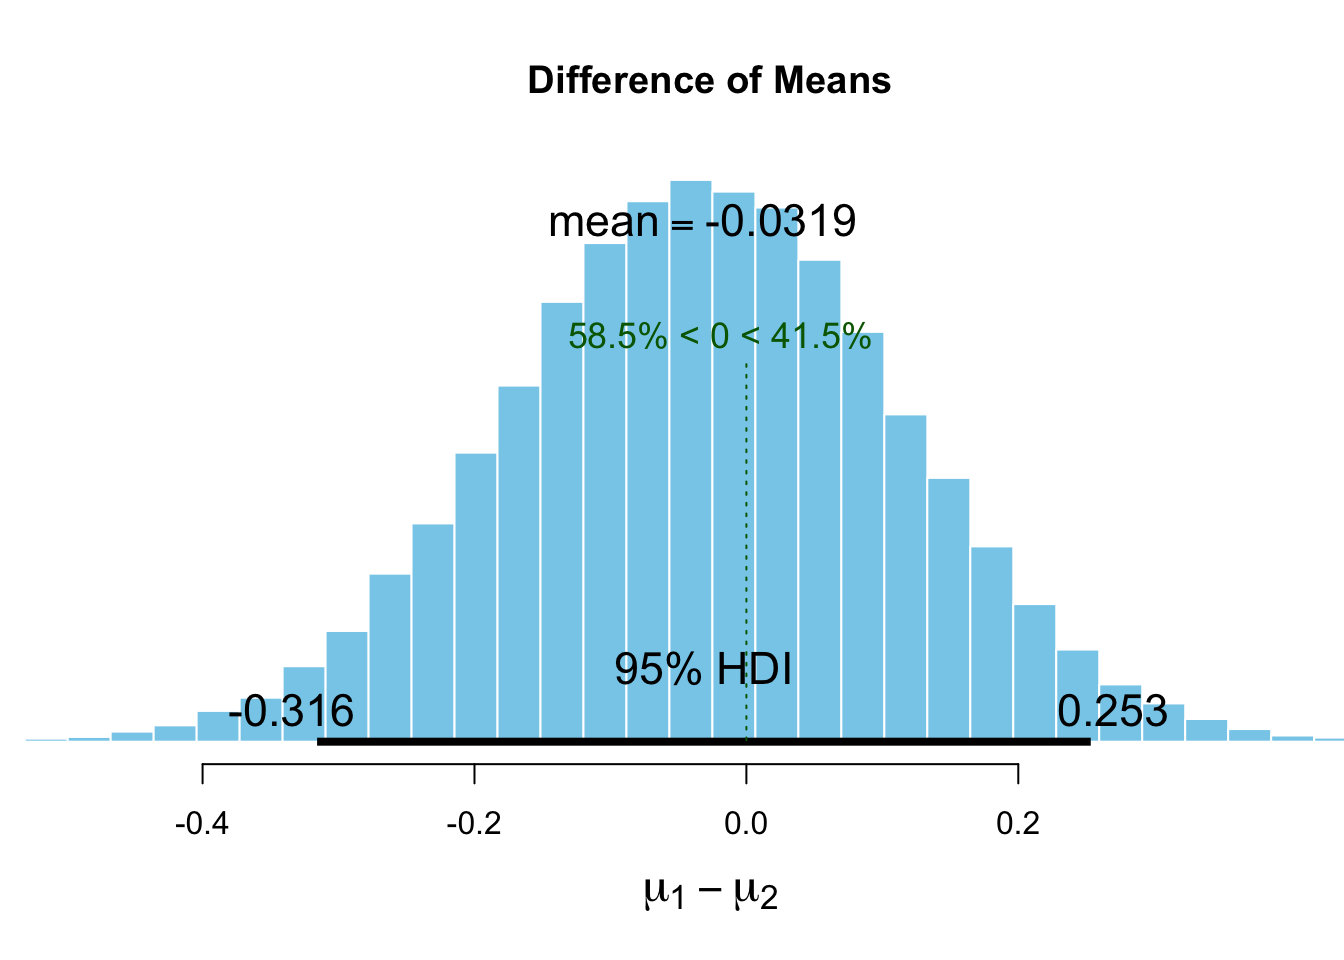
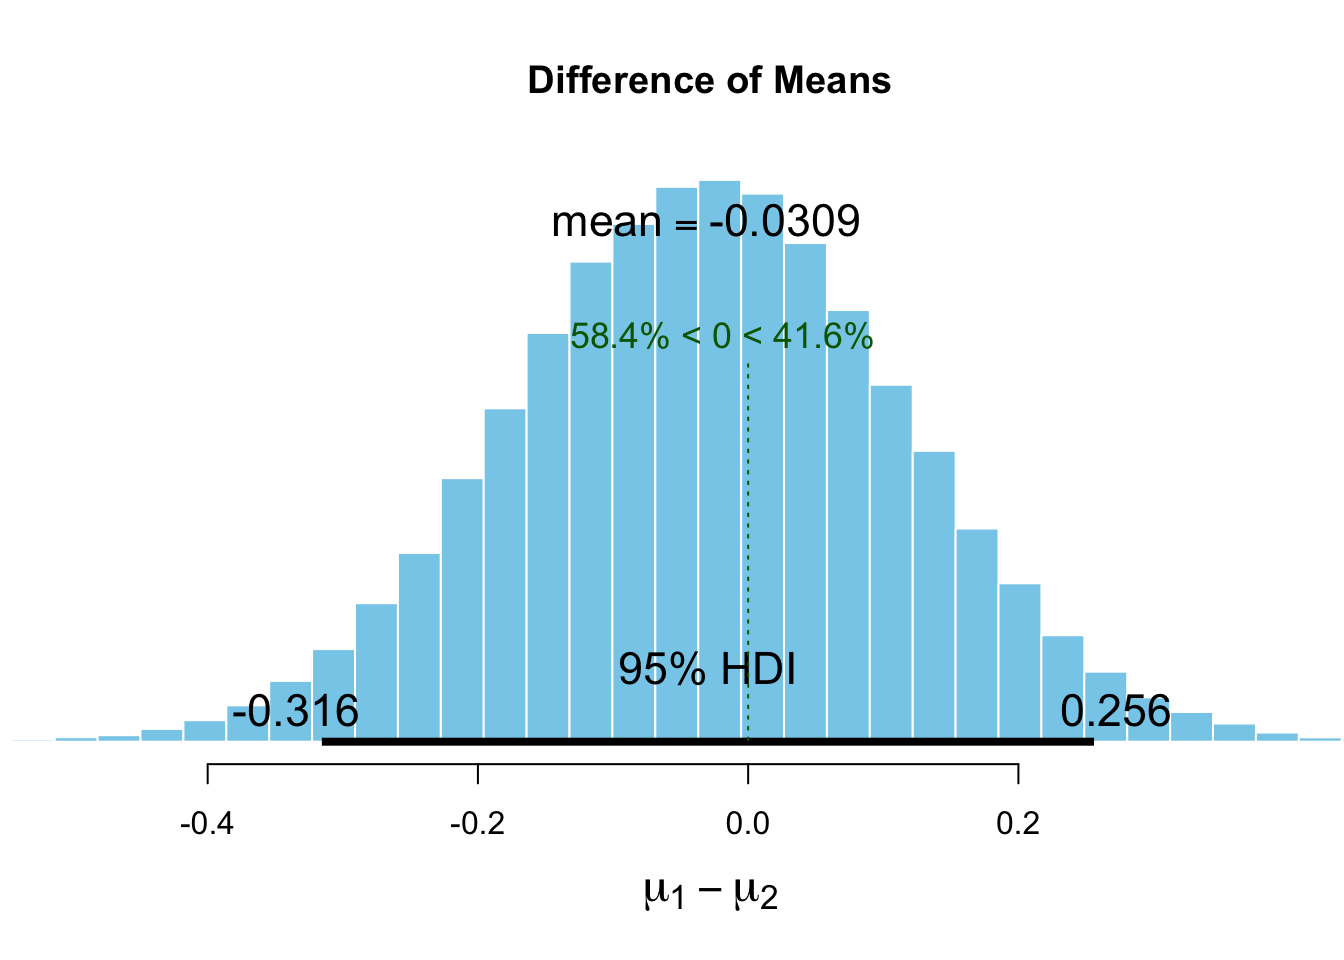
Updating date on html

diff --git a/WF_bayesian.html b/WF_bayesian.html
@@ -11,7 +11,6 @@
 
 <meta name="author" content="Benjamin C. Holding" />
 
-<meta name="date" content="2017-12-06" />
 
 <title>Verbal Fluency</title>
 
@@ -209,7 +208,7 @@ $(document).ready(function () {
 
 <h1 class="title toc-ignore">Verbal Fluency</h1>
 <h4 class="author"><em>Benjamin C. Holding</em></h4>
-<h4 class="date"><em>12/06/2017</em></h4>
+<h4 class="date"><em>02 May, 2018</em></h4>
 
 </div>
 
@@ -264,15 +263,15 @@ FAS_best_priors &lt;- BESTmcmc(VF.complete$Score.FAS[VF.complete$SD ==1],
 FAS.summary &lt;- summary(FAS_best)
 FAS.summary</code></pre>
 <pre><code>##             mean median   mode HDI%   HDIlo  HDIup compVal %&gt;compVal
-## mu1       40.551 40.551 40.502   95 38.1670 42.983                  
-## mu2       37.712 37.710 37.746   95 35.4611 40.054                  
-## muDiff     2.839  2.847  2.939   95 -0.4766  6.151       0      95.2
-## sigma1    11.214 11.170 11.062   95  9.4494 13.126                  
-## sigma2    10.583 10.549 10.398   95  8.8110 12.451                  
-## sigmaDiff  0.631  0.625  0.677   95 -1.7958  3.088       0      69.4
-## nu        38.645 30.057 15.613   95  4.0606 98.060                  
-## log10nu    1.475  1.478  1.497   95  0.8696  2.070                  
-## effSz      0.261  0.261  0.264   95 -0.0509  0.558       0      95.2</code></pre>
+## mu1       40.554 40.554 40.606   95 38.1218 42.947                  
+## mu2       37.707 37.708 37.823   95 35.4393 40.005                  
+## muDiff     2.847  2.838  2.712   95 -0.4578  6.191       0      95.4
+## sigma1    11.208 11.165 11.044   95  9.4250 13.087                  
+## sigma2    10.583 10.554 10.486   95  8.7512 12.444                  
+## sigmaDiff  0.625  0.620  0.666   95 -1.7989  3.121       0      69.2
+## nu        38.759 29.927 15.447   95  4.2212 99.434                  
+## log10nu    1.474  1.476  1.436   95  0.8632  2.074                  
+## effSz      0.262  0.261  0.251   95 -0.0441  0.566       0      95.4</code></pre>
 <pre class="r"><code>#######################ERRORS########################
 FAS_best_errors &lt;- BESTmcmc(VF.complete$Rejected.FAS.1[VF.complete$SD ==1], 
                      VF.complete$Rejected.FAS.1[VF.complete$SD ==0],
@@ -280,16 +279,16 @@ FAS_best_errors &lt;- BESTmcmc(VF.complete$Rejected.FAS.1[VF.complete$SD ==1],
 <pre><code>## Waiting for parallel processing to complete...done.</code></pre>
 <pre class="r"><code>FAS_errors.summary &lt;- summary(FAS_best_errors)
 FAS_errors.summary</code></pre>
-<pre><code>##              mean  median    mode HDI%  HDIlo HDIup compVal %&gt;compVal
-## mu1        1.4268  1.4212  1.3819   95  1.028 1.833                  
-## mu2        1.5422  1.5310  1.5046   95  1.104 2.000                  
-## muDiff    -0.1154 -0.1131 -0.1085   95 -0.678 0.444       0      34.4
-## sigma1     1.3733  1.3631  1.3179   95  1.017 1.737                  
-## sigma2     1.5197  1.5019  1.4792   95  1.068 2.010                  
-## sigmaDiff -0.1464 -0.1398 -0.1163   95 -0.663 0.339       0      28.4
-## nu         2.2128  2.1306  1.9976   95  1.328 3.269                  
-## log10nu    0.3335  0.3285  0.3192   95  0.146 0.530                  
-## effSz     -0.0782 -0.0786 -0.0794   95 -0.459 0.313       0      34.4</code></pre>
+<pre><code>##             mean  median    mode HDI%  HDIlo HDIup compVal %&gt;compVal
+## mu1        1.426  1.4209  1.3905   95  1.025 1.831                  
+## mu2        1.538  1.5277  1.4976   95  1.104 1.994                  
+## muDiff    -0.112 -0.1109 -0.1174   95 -0.670 0.451       0      34.8
+## sigma1     1.373  1.3626  1.3482   95  1.014 1.733                  
+## sigma2     1.516  1.4966  1.4672   95  1.066 2.006                  
+## sigmaDiff -0.143 -0.1368 -0.1287   95 -0.648 0.359       0      29.1
+## nu         2.207  2.1259  1.9400   95  1.320 3.249                  
+## log10nu    0.332  0.3276  0.3294   95  0.143 0.524                  
+## effSz     -0.076 -0.0773 -0.0878   95 -0.460 0.311       0      34.8</code></pre>
 </div>
 <div id="swedish-verb-task" class="section level2">
 <h2>Swedish Verb Task</h2>
@@ -314,16 +313,16 @@ Verb_best &lt;- BESTmcmc(VF.complete$Score.VERBS[VF.complete$SD ==1],
 <pre class="r"><code>#Checking the output
 Verb.summary &lt;- summary(Verb_best)
 Verb.summary</code></pre>
-<pre><code>##              mean  median   mode HDI%  HDIlo  HDIup compVal %&gt;compVal
-## mu1       18.7210 18.7156 18.707   95 17.351 20.075                  
-## mu2       19.0622 19.0662 19.115   95 17.826 20.254                  
-## muDiff    -0.3412 -0.3471 -0.326   95 -2.152  1.528       0      35.4
-## sigma1     6.0671  6.0522  6.028   95  4.866  7.286                  
-## sigma2     5.4349  5.4184  5.375   95  4.419  6.488                  
-## sigmaDiff  0.6322  0.6274  0.599   95 -0.753  2.017       0      81.9
-## nu        20.0548 13.4232  7.827   95  2.989 58.415                  
-## log10nu    1.1709  1.1279  1.000   95  0.623  1.818                  
-## effSz     -0.0613 -0.0603 -0.055   95 -0.377  0.265       0      35.4</code></pre>
+<pre><code>##              mean  median    mode HDI%  HDIlo  HDIup compVal %&gt;compVal
+## mu1       18.7255 18.7201 18.6896   95 17.364 20.115                  
+## mu2       19.0568 19.0609 19.1065   95 17.832 20.273                  
+## muDiff    -0.3313 -0.3376 -0.3288   95 -2.165  1.525       0      36.0
+## sigma1     6.0736  6.0584  5.9521   95  4.888  7.308                  
+## sigma2     5.4440  5.4289  5.4119   95  4.422  6.517                  
+## sigmaDiff  0.6296  0.6254  0.6268   95 -0.766  2.003       0      81.9
+## nu        20.7480 13.6879  8.0582   95  2.931 61.834                  
+## log10nu    1.1799  1.1363  1.0177   95  0.625  1.848                  
+## effSz     -0.0597 -0.0587 -0.0603   95 -0.384  0.259       0      36.0</code></pre>
 <pre class="r"><code>###########################ERRORS##########################
 VERB_best_errors &lt;- BESTmcmc(VF.complete$Rejected.VERBS[VF.complete$SD ==1], 
                      VF.complete$Rejected.VERBS[VF.complete$SD ==0],
@@ -331,16 +330,16 @@ VERB_best_errors &lt;- BESTmcmc(VF.complete$Rejected.VERBS[VF.complete$SD ==1],
 <pre><code>## Waiting for parallel processing to complete...done.</code></pre>
 <pre class="r"><code>VERB_errors.summary &lt;- summary(VERB_best_errors)
 VERB_errors.summary</code></pre>
-<pre><code>##              mean  median   mode HDI%  HDIlo  HDIup compVal %&gt;compVal
-## mu1        1.1683  1.1677  1.158   95  0.949  1.385                  
-## mu2        1.3142  1.3141  1.313   95  1.112  1.522                  
-## muDiff    -0.1459 -0.1458 -0.144   95 -0.442  0.153       0      16.6
-## sigma1     0.9357  0.9311  0.917   95  0.763  1.115                  
-## sigma2     0.8903  0.8851  0.879   95  0.728  1.070                  
-## sigmaDiff  0.0454  0.0453  0.045   95 -0.177  0.267       0      65.8
-## nu        10.5243  8.7552  6.775   95  3.174 21.880                  
-## log10nu    0.9660  0.9423  0.912   95  0.603  1.388                  
-## effSz     -0.1614 -0.1600 -0.159   95 -0.492  0.166       0      16.6</code></pre>
+<pre><code>##             mean  median    mode HDI%  HDIlo  HDIup compVal %&gt;compVal
+## mu1        1.169  1.1683  1.1679   95  0.953  1.384                  
+## mu2        1.315  1.3147  1.3146   95  1.108  1.517                  
+## muDiff    -0.146 -0.1467 -0.1591   95 -0.442  0.150       0      16.7
+## sigma1     0.935  0.9308  0.9243   95  0.766  1.116                  
+## sigma2     0.890  0.8857  0.8707   95  0.724  1.062                  
+## sigmaDiff  0.045  0.0447  0.0374   95 -0.175  0.269       0      65.6
+## nu        10.401  8.7558  7.2156   95  3.347 21.672                  
+## log10nu    0.964  0.9423  0.8816   95  0.607  1.379                  
+## effSz     -0.162 -0.1606 -0.1669   95 -0.486  0.168       0      16.7</code></pre>
 </div>
 </div>
 

diff --git a/Sociometric_bayesian.html b/Sociometric_bayesian.html
@@ -208,7 +208,7 @@ $(document).ready(function () {
 
 <h1 class="title toc-ignore">Sociometer analysis</h1>
 <h4 class="author"><em>Benjamin Holding</em></h4>
-<h4 class="date"><em>24/10/2016</em></h4>
+<h4 class="date"><em>02 May, 2018</em></h4>
 
 </div>
 
@@ -258,15 +258,15 @@ Speaking_best_priors &lt;- BESTmcmc(sociometric.tagged$speech_profile_total_spea
 speaking.summary &lt;- summary(Speaking_best)
 speaking.summary</code></pre>
 <pre><code>##              mean  median    mode HDI%   HDIlo    HDIup compVal %&gt;compVal
-## mu1       617.638 617.644 618.286   95 592.092 642.7608                  
-## mu2       648.864 648.887 648.046   95 622.103 675.2283                  
-## muDiff    -31.226 -31.191 -29.721   95 -68.105   5.3060       0      4.72
-## sigma1    113.544 113.130 111.743   95  94.685 133.2414                  
-## sigma2    122.770 122.429 121.937   95 101.434 144.2409                  
-## sigmaDiff  -9.226  -9.104  -7.891   95 -36.141  18.1523       0     25.04
-## nu         38.178  29.297  14.306   95   3.778  98.5136                  
-## log10nu     1.464   1.467   1.448   95   0.843   2.0742                  
-## effSz      -0.264  -0.264  -0.248   95  -0.577   0.0443       0      4.72</code></pre>
+## mu1       617.576 617.587 617.402   95 592.297 643.0514                  
+## mu2       648.780 648.728 647.784   95 621.899 675.1463                  
+## muDiff    -31.205 -31.187 -32.533   95 -68.064   5.1615       0      4.72
+## sigma1    113.585 113.181 112.136   95  94.364 133.3602                  
+## sigma2    122.792 122.447 121.870   95 102.149 144.9300                  
+## sigmaDiff  -9.206  -9.189  -7.506   95 -36.677  17.3595       0     24.80
+## nu         38.402  29.712  14.893   95   3.631  98.1115                  
+## log10nu     1.467   1.473   1.489   95   0.850   2.0809                  
+## effSz      -0.264  -0.264  -0.265   95  -0.576   0.0418       0      4.72</code></pre>
 <pre class="r"><code>#Creating a plot of the posterior distribution for the difference between groups
 plot(Speaking_best) #the probability that the true value is smaller than zero = 95.5%</code></pre>
 <p><img src="Sociometric_bayesian_files/figure-html/unnamed-chunk-4-1.png" width="672" /></p>
@@ -287,16 +287,16 @@ total_volume_best &lt;- BESTmcmc(sociometric.tagged$audio_front_volume_SCALED[so
 <pre class="r"><code># check the output
 total_volume.summary &lt;- summary(total_volume_best)
 total_volume.summary</code></pre>
-<pre><code>##              mean  median    mode HDI%  HDIlo   HDIup compVal %&gt;compVal
-## mu1       -0.1032 -0.1046 -0.1113   95 -0.309  0.0984                  
-## mu2       -0.0713 -0.0722 -0.0706   95 -0.287  0.1501                  
-## muDiff    -0.0319 -0.0316 -0.0397   95 -0.316  0.2533       0      41.5
-## sigma1     0.8212  0.8179  0.8147   95  0.636  1.0197                  
-## sigma2     0.9070  0.9030  0.8966   95  0.714  1.1059                  
-## sigmaDiff -0.0858 -0.0857 -0.0934   95 -0.308  0.1322       0      21.9
-## nu        11.8954  7.8088  5.5447   95  2.340 34.1965                  
-## log10nu    0.9492  0.8926  0.8107   95  0.469  1.5755                  
-## effSz     -0.0370 -0.0366 -0.0489   95 -0.363  0.2979       0      41.5</code></pre>
+<pre><code>##              mean  median    mode HDI%  HDIlo  HDIup compVal %&gt;compVal
+## mu1       -0.1029 -0.1048 -0.1057   95 -0.303  0.105                  
+## mu2       -0.0720 -0.0729 -0.0663   95 -0.290  0.148                  
+## muDiff    -0.0309 -0.0308 -0.0142   95 -0.316  0.256       0      41.6
+## sigma1     0.8206  0.8177  0.8133   95  0.637  1.017                  
+## sigma2     0.9063  0.9026  0.8910   95  0.711  1.102                  
+## sigmaDiff -0.0858 -0.0854 -0.0904   95 -0.305  0.134       0      21.9
+## nu        11.3389  7.7789  5.3162   95  2.193 31.448                  
+## log10nu    0.9417  0.8909  0.7964   95  0.466  1.536                  
+## effSz     -0.0358 -0.0356 -0.0137   95 -0.371  0.290       0      41.6</code></pre>
 <pre class="r"><code>#Creating a plot of the posterior distribution for the difference between groups
 plot(total_volume_best)</code></pre>
 <p><img src="Sociometric_bayesian_files/figure-html/unnamed-chunk-5-1.png" width="672" /></p>
@@ -318,15 +318,15 @@ variation_volume_best &lt;- BESTmcmc(sociometric.tagged$audio_front_vol_consiste
 variation_volume.summary &lt;- summary(variation_volume_best)
 variation_volume.summary</code></pre>
 <pre><code>##              mean  median    mode HDI%  HDIlo   HDIup compVal %&gt;compVal
-## mu1        0.0354  0.0351  0.0287   95 -0.187   0.256                  
-## mu2       -0.0545 -0.0547 -0.0630   95 -0.262   0.154                  
-## muDiff     0.0899  0.0897  0.0844   95 -0.218   0.389       0      71.8
-## sigma1     1.0044  0.9998  0.9858   95  0.848   1.174                  
-## sigma2     0.9781  0.9741  0.9705   95  0.829   1.138                  
-## sigmaDiff  0.0264  0.0258  0.0240   95 -0.196   0.249       0      59.2
-## nu        46.9084 38.6766 24.0926   95  6.395 109.639                  
-## log10nu    1.5825  1.5874  1.5838   95  1.032   2.113                  
-## effSz      0.0909  0.0905  0.0877   95 -0.215   0.396       0      71.8</code></pre>
+## mu1        0.0352  0.0352  0.0229   95 -0.189   0.252                  
+## mu2       -0.0542 -0.0551 -0.0604   95 -0.266   0.155                  
+## muDiff     0.0895  0.0889  0.0817   95 -0.212   0.395       0      71.9
+## sigma1     1.0042  0.9996  1.0009   95  0.847   1.171                  
+## sigma2     0.9788  0.9744  0.9623   95  0.830   1.142                  
+## sigmaDiff  0.0255  0.0250  0.0141   95 -0.199   0.246       0      59.1
+## nu        46.9682 38.5711 23.1720   95  6.270 109.632                  
+## log10nu    1.5822  1.5863  1.6550   95  1.043   2.127                  
+## effSz      0.0904  0.0897  0.0852   95 -0.211   0.399       0      71.9</code></pre>
 <pre class="r"><code>#Creating a plot of the posterior distribution for the difference between groups
 plot(variation_volume_best)</code></pre>
 <p><img src="Sociometric_bayesian_files/figure-html/unnamed-chunk-6-1.png" width="672" /></p>

diff --git a/index.html b/index.html
@@ -185,10 +185,10 @@ $(document).ready(function () {
   <a href="Lego_bayesian.html">Model Building</a>
 </li>
 <li>
-  <a href="Short-term_memory.html">Taboo</a>
+  <a href="Tabu_bayesian.html">Taboo</a>
 </li>
 <li>
-  <a href="Maths.html">Sociometric badge</a>
+  <a href="Sociometric_bayesian.html">Sociometric badge</a>
 </li>
 <li>
   <a href="about.html">About</a>

diff --git a/Lego_bayesian.html b/Lego_bayesian.html
@@ -208,7 +208,7 @@ $(document).ready(function () {
 
 <h1 class="title toc-ignore">Bayesian Lego</h1>
 <h4 class="author"><em>Benjamin Holding</em></h4>
-<h4 class="date"><em>16/05/2017</em></h4>
+<h4 class="date"><em>02 May, 2018</em></h4>
 
 </div>
 

diff --git a/Tabu_bayesian.html b/Tabu_bayesian.html
@@ -208,7 +208,7 @@ $(document).ready(function () {
 
 <h1 class="title toc-ignore">Bayesian Tabu</h1>
 <h4 class="author"><em>Benjamin Holding</em></h4>
-<h4 class="date"><em>31/05/2017</em></h4>
+<h4 class="date"><em>02 May, 2018</em></h4>
 
 </div>
 
